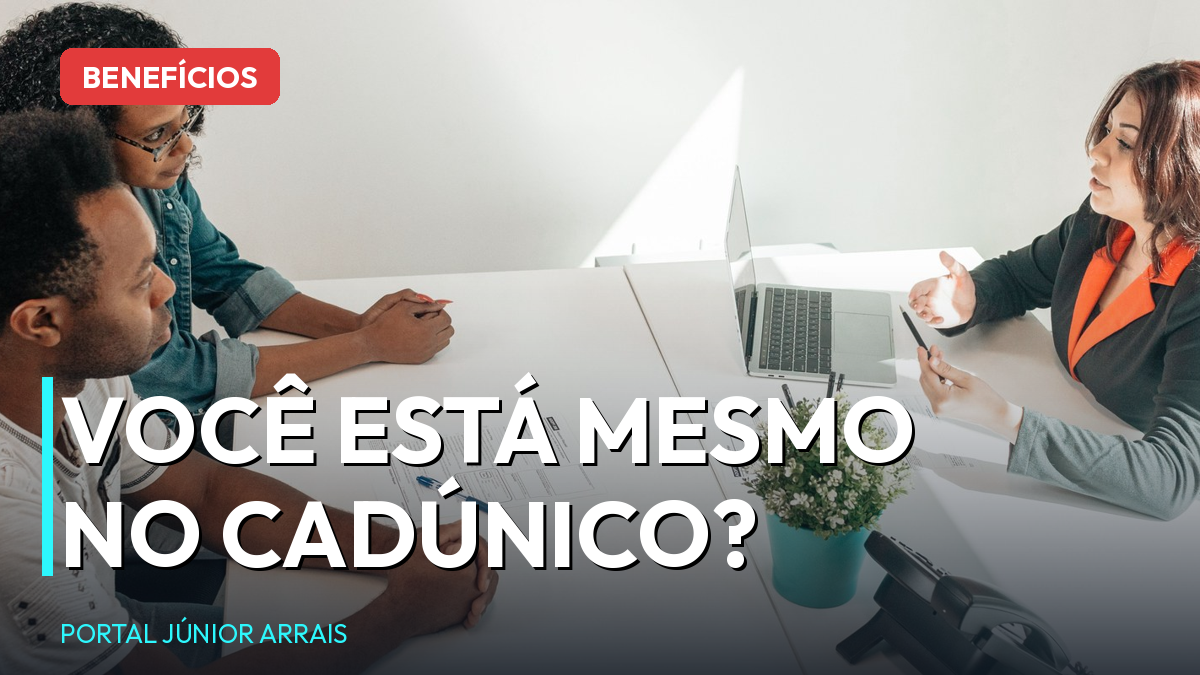
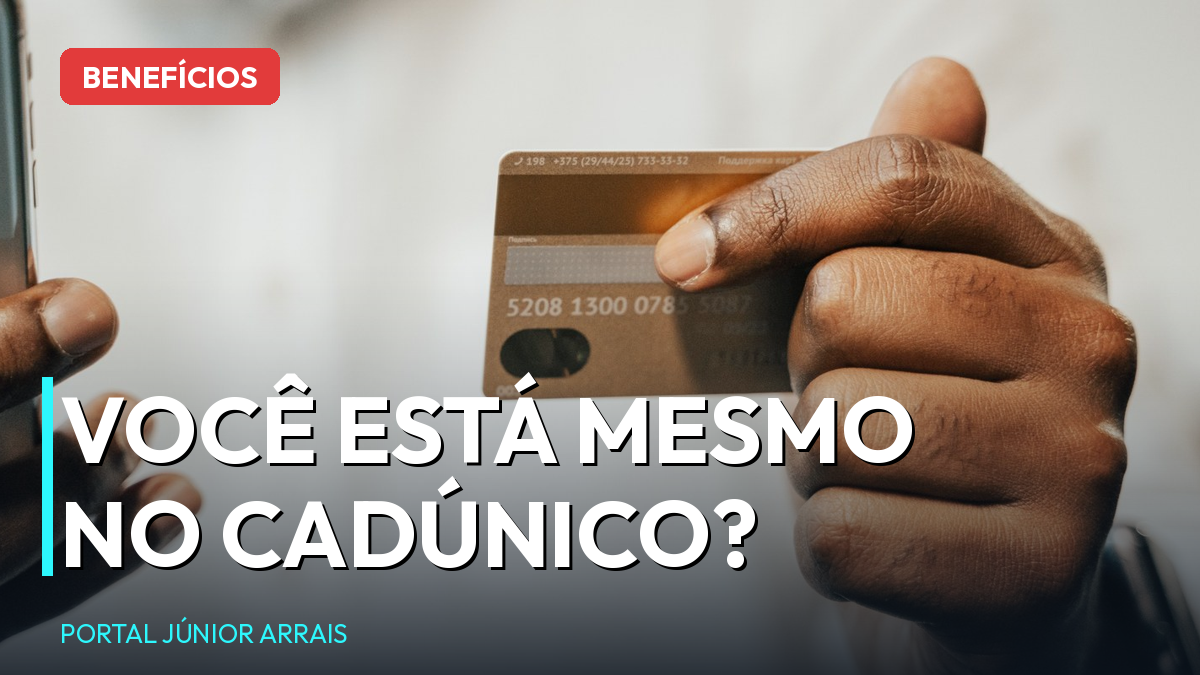
Corrige capas com foto fora de contexto

diff --git a/img/banco/CREDITOS.md b/img/banco/CREDITOS.md
@@ -15,7 +15,7 @@ mediante citação do crédito. Nunca substituir por foto de agência comercial
 
 | Arquivo | O que mostra | Crédito |
 |---|---|---|
-| `cadunico-atendimento-social.jpg` | Plantão de atendimento da assistência social, com colete "ASSISTÊNCIA SOCIAL" visível | Foto: Tânia Rêgo/Agência Brasil |
+_(sem foto no banco — ver seção de reprovadas)_
 
 ## Bolsa Família / Caixa
 
@@ -27,7 +27,7 @@ mediante citação do crédito. Nunca substituir por foto de agência comercial
 
 | Arquivo | O que mostra | Crédito |
 |---|---|---|
-| `bpc-pessoa-idosa.jpg` | Pessoa idosa trabalhando em feira (pauta de renda na terceira idade) | Foto: Marcelo Camargo/Agência Brasil |
+_(sem foto no banco — usar `idosa-sorrindo-retrato.jpg` ou `idosa-negra-retrato.jpg` da Parte 2)_
 
 ## INSS / Previdência
 
@@ -86,7 +86,10 @@ aqui para ninguém tentar de novo:
 
 - fila em agência da Caixa — na verdade é bilhete da Mega da Virada, remete a loteria;
 - interior de agência do INSS — a imagem mostra comércio fechado, com grade e pichação;
-- notas de real em foco suave — desfocada demais para servir de fundo.
+- notas de real em foco suave — desfocada demais para servir de fundo;
+- plantão da assistência social — o atendimento acontecia **dentro de uma paróquia**, e
+  aparecem pessoas em vestes religiosas. Numa capa de CadÚnico, parece missa;
+- idoso em balcão de comércio — parece atendimento de loja, não tem nada de benefício.
 
 **Lição:** toda foto nova entra no banco só depois de olhada. Descrição de acervo engana.
 
